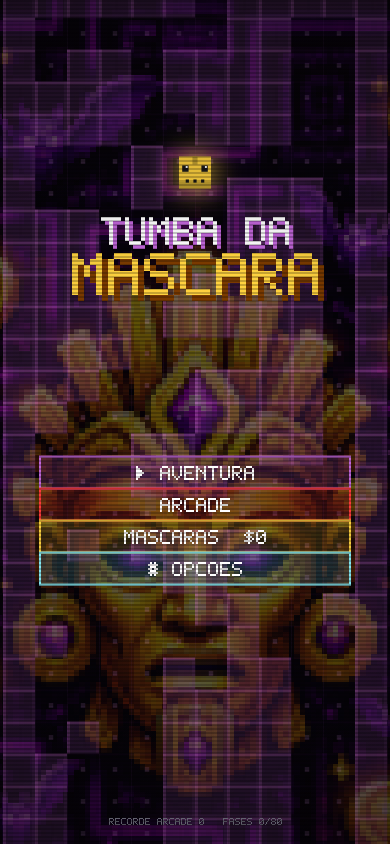
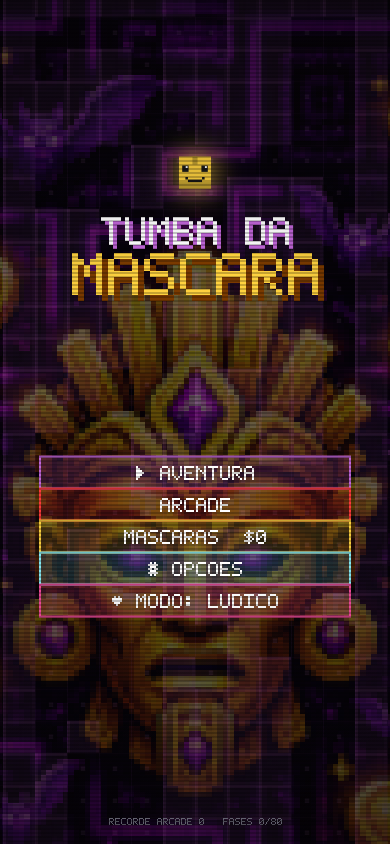
Adiciona Modo Lúdico (voz, elogios, confete, rostinhos) mantendo a mesma dificuldade
- Alternância Lúdico/Clássico na tela inicial e nas opções; os dois modos sempre disponíveis
- Modo Lúdico: narração em pt-BR via Web Speech, mensagens de incentivo ao errar, festa com confete ao vencer, palavras em combos, máscara sorrindo e morcegos fofos
- Seta de dica opcional, desligada por padrão (calculada pelo solver a partir da posição atual)
- Velocidade, perigos, lava e regra de reinício inalterados
- Teste e2e cobre a tela do modo lúdico; documentação atualizada

Claude-Session: https://claude.ai/code/session_0126L2T4JtTxqUNXm4kTD5H1

diff --git a/pwa/js/game.js b/pwa/js/game.js
@@ -19,6 +19,10 @@
   const SHOT_SPEED = 9;
   const SHOT_PERIOD = 2.2;
   const COLS = 12;
+  // Modo lúdico (para crianças): só muda a forma de comunicar, nunca a dificuldade.
+  const ELOGIOS = ['Muito bem!', 'Você conseguiu!', 'Incrível!', 'Que demais!', 'Parabéns, campeão!', 'Uau, mandou bem!'];
+  const ANIMOS = ['Opa! Tente de novo.', 'Quase! Vamos de novo.', 'Tudo bem, tenta mais uma vez!', 'Cuidado com isso! Vamos lá.', 'Você está quase lá!'];
+  const COMBOS = ['LEGAL!', 'UAU!', 'SHOW!', 'ISSO!', 'DEMAIS!'];
 
   const MASKS = [
     { id: 'classica', name: 'CLASSICA', color: '#ffd23f', eye: '#1a1a1a', cost: 0, perk: 'A MASCARA ORIGINAL', perkId: null },
@@ -34,7 +38,7 @@
     data: null,
     load() {
       try { this.data = JSON.parse(localStorage.getItem(SAVE_KEY)) || null; } catch (e) { this.data = null; }
-      this.data = Object.assign({ unlocked: 1, stars: {}, best: {}, coins: 0, masks: ['classica'], mask: 'classica', arcadeBest: 0, sfx: true, music: true, crt: true, shake: true }, this.data || {});
+      this.data = Object.assign({ unlocked: 1, stars: {}, best: {}, coins: 0, masks: ['classica'], mask: 'classica', arcadeBest: 0, sfx: true, music: true, crt: true, shake: true, kids: true, voice: true, hints: false }, this.data || {});
       return this.data;
     },
     write() { try { localStorage.setItem(SAVE_KEY, JSON.stringify(this.data)); } catch (e) { /* armazenamento indisponível */ } },
@@ -187,6 +191,8 @@
       this.state = 'play'; this.buttons = [];
       this.hintTimer = index === 0 ? 6 : 0;
       this.lastFrame = now();
+      this.idleSince = null; this.hint = null; this.combo = 0;
+      if (this.kids() && index === 0 && !this.spokeIntro) { this.spokeIntro = true; this.speak('Deslize o dedo para a máscara voar até a parede!'); }
     }
 
     startArcade() {
@@ -268,6 +274,21 @@
     }
 
     mask() { return MASKS.find((m) => m.id === this.save.mask) || MASKS[0]; }
+    kids() { return !!this.save.kids; }
+    pick(arr) { return arr[Math.floor(Math.random() * arr.length)]; }
+    // Voz em português (Web Speech API, usa as vozes do próprio aparelho)
+    speak(text) {
+      if (!this.kids() || !this.save.voice || !root.speechSynthesis) return;
+      try {
+        root.speechSynthesis.cancel();
+        const u = new SpeechSynthesisUtterance(text);
+        u.lang = 'pt-BR'; u.rate = 0.95; u.pitch = 1.15;
+        const voices = root.speechSynthesis.getVoices();
+        const v = voices.find((vv) => /pt[-_]BR/i.test(vv.lang)) || voices.find((vv) => /^pt/i.test(vv.lang));
+        if (v) u.voice = v;
+        root.speechSynthesis.speak(u);
+      } catch (e) { /* sem voz disponível */ }
+    }
     viewRows() { return this.H / this.tile; }
 
     queueMove(dir) {
@@ -284,7 +305,7 @@
       while (!M.isSolid(this.grid.get(tx + d[0], ty + d[1]))) { tx += d[0]; ty += d[1]; if (Math.abs(tx - p.cx) + Math.abs(ty - p.cy) > 200) break; }
       if (tx === p.cx && ty === p.cy) { this.bumpFx(d); return; }
       p.dir = d; p.face = d; p.moving = true; p.tx = tx; p.ty = ty; p.queued = null;
-      this.moves++;
+      this.moves++; this.idleSince = this.t; this.hint = null;
       if (!this.started) { this.started = true; this.timeStart = now(); }
       this.audio.move();
     }
@@ -314,6 +335,10 @@
       for (const p of this.particles) { p.x += p.vx * dt; p.y += p.vy * dt; p.vy += p.g * dt; p.life -= dt; }
       this.particles = this.particles.filter((p) => p.life > 0);
       if (this.toast) { this.toast.t -= dt; if (this.toast.t <= 0) this.toast = null; }
+      if (this.confetti > 0 && this.state === 'win') {
+        this.confetti -= dt / 3;
+        for (let i = 0; i < 2; i++) this.particles.push({ x: Math.random() * COLS, y: this.camY - 0.5, vx: (Math.random() - 0.5) * 2, vy: 2 + Math.random() * 3, g: 2, life: 2.5, color: this.pick(['#ffd23f', '#ff4fa3', '#8cf5ff', '#7fc33a', '#ffffff']), size: 0.18 + Math.random() * 0.12 });
+      }
     }
 
     update(dt) {
@@ -321,6 +346,11 @@
       const p = this.player;
       if (this.started) this.elapsed = now() - this.timeStart;
       if (this.hintTimer > 0) this.hintTimer -= dt;
+      // Seta de dica (opcional, desligada por padrão): aparece se a criança ficar parada
+      if (this.save.hints && !p.moving && !p.dead && this.mode === 'stage') {
+        if (this.idleSince == null) this.idleSince = this.t;
+        if (this.t - this.idleSince > 5 && !this.hint) this.hint = this.computeHint();
+      }
       p.squash = Math.max(0, p.squash - dt * 6);
       p.invul = Math.max(0, p.invul - dt);
       if (p.freeze > 0) p.freeze -= dt;
@@ -416,6 +446,30 @@
       this.camY = lerp(this.camY, this.mode === 'arcade' ? target : clamp(target, Math.min(minCam, maxCam), Math.max(minCam, maxCam)), 1 - Math.pow(0.001, dt));
     }
 
+    // Próximo movimento do caminho mais curto a partir da posição atual
+    computeHint() {
+      const rows = [];
+      for (let y = this.grid.minY; y <= this.grid.maxY; y++) rows.push(this.grid.rows.get(y).join(''));
+      const p = this.player;
+      const start = [p.cx, p.cy - this.grid.minY];
+      const key = (x, y) => y * 1000 + x;
+      const q = [start], par = new Map([[key(...start), null]]);
+      let exitK = null;
+      while (q.length && exitK === null) {
+        const [x, y] = q.shift();
+        for (const d of M.DIRS) {
+          const sl = M.slide(rows, x, y, d[0], d[1]);
+          if (sl.dead || !sl.path.length) continue;
+          const k = key(sl.x, sl.y);
+          if (!par.has(k)) { par.set(k, { from: key(x, y), d }); if (sl.exit) { exitK = k; break; } q.push([sl.x, sl.y]); }
+        }
+      }
+      if (exitK === null) return { d: [0, -1] };
+      let k = exitK, first = null;
+      while (par.get(k)) { first = par.get(k).d; k = par.get(k).from; }
+      return { d: first || [0, -1] };
+    }
+
     enterCell(x, y) {
       const c = this.grid.get(x, y);
       if (c === T.SPIKE) { this.die('espinho'); return; }
@@ -425,7 +479,11 @@
     collect(x, y, c) {
       const p = this.player;
       this.grid.set(x, y, T.EMPTY);
-      if (c === T.DOT) { this.score += 10; this.dotsLeft--; this.audio.dot(); this.burst(x + 0.5, y + 0.5, 2, this.world.accent, 0.8); }
+      if (c === T.DOT) {
+        this.score += 10; this.dotsLeft--; this.audio.dot(); this.burst(x + 0.5, y + 0.5, 2, this.world.accent, 0.8);
+        this.combo = (this.t - (this.lastDotAt || -9) < 0.35) ? (this.combo || 0) + 1 : 1; this.lastDotAt = this.t;
+        if (this.kids() && this.combo > 0 && this.combo % 8 === 0) this.toastMsg(this.pick(COMBOS));
+      }
       else if (c === T.COIN) {
         const v = this.mask().perkId === 'coins2x' ? 2 : 1;
         this.levelCoins++; this.score += 100; this.save.coins += 5 * v; this.audio.coin();
@@ -462,6 +520,7 @@
       if (navigator.vibrate) { try { navigator.vibrate(80); } catch (e) { /* ignorado */ } }
       this.state = this.mode === 'arcade' ? 'arcadeover' : 'dead';
       this.buttons = [];
+      if (this.kids()) { this.deathMsg = this.pick(ANIMOS); this.speak(this.deathMsg); }
       if (this.mode === 'arcade') {
         const sc = this.arcadeScore();
         if (sc > this.save.arcadeBest) { this.save.arcadeBest = sc; this.newBest = true; } else this.newBest = false;
@@ -485,6 +544,9 @@
       this.newWorld = wasUnlocked !== this.save.unlocked && (idx + 1) % 10 === 0 && idx + 1 < root.LEVELS.length;
       Save.write();
       this.state = 'win'; this.buttons = []; this.winAt = this.t;
+      this.winTitle = this.kids() ? this.pick(['MUITO BEM!', 'INCRIVEL!', 'VOCE CONSEGUIU!', 'UAU!']) : 'COMPLETA!';
+      this.confetti = this.kids() ? 1 : 0;
+      if (this.kids()) this.speak(this.pick(ELOGIOS) + (stars === 3 ? ' Três estrelas!' : stars === 0 ? ' Tente pegar as estrelas douradas!' : ''));
     }
     restart() { if (this.mode === 'arcade') this.startArcade(); else this.startLevel(this.levelIndex); }
     nextLevel() {
@@ -620,6 +682,7 @@
         ctx.fillRect(ox + tr.x * s - k / 2, oy + tr.y * s - k / 2, k, k);
       }
       if (!p.dead) this.drawPlayer(ox + p.x * s, oy + p.y * s);
+      if (this.hint && !p.moving && this.state === 'play') this.drawHint(ox + p.x * s, oy + p.y * s, this.hint.d);
       // partículas
       for (const pt of this.particles) {
         ctx.fillStyle = pt.color; ctx.globalAlpha = clamp(pt.life * 2, 0, 1);
@@ -717,8 +780,14 @@
       ctx.fillRect(cx - bw / 2 - s * 0.18, wy - s * 0.1, s * 0.12, s * 0.1);
       ctx.fillRect(cx + bw / 2 + s * 0.06, wy - s * 0.1, s * 0.12, s * 0.1);
       ctx.shadowBlur = 0;
-      ctx.fillStyle = '#ff4040'; const e = Math.max(1, s * 0.06);
-      ctx.fillRect(cx - bw / 4 - e / 2, cy - bh / 4, e, e); ctx.fillRect(cx + bw / 4 - e / 2, cy - bh / 4, e, e);
+      if (this.kids()) { // olhos grandes e fofos
+        const e = Math.max(2, s * 0.11);
+        ctx.fillStyle = '#ffffff'; ctx.fillRect(cx - bw / 4 - e / 2, cy - bh / 4, e, e); ctx.fillRect(cx + bw / 4 - e / 2, cy - bh / 4, e, e);
+        ctx.fillStyle = '#1a1a1a'; const pz = Math.max(1, e * 0.5); ctx.fillRect(cx - bw / 4, cy - bh / 4 + e * 0.3, pz, pz); ctx.fillRect(cx + bw / 4, cy - bh / 4 + e * 0.3, pz, pz);
+      } else {
+        ctx.fillStyle = '#ff4040'; const e = Math.max(1, s * 0.06);
+        ctx.fillRect(cx - bw / 4 - e / 2, cy - bh / 4, e, e); ctx.fillRect(cx + bw / 4 - e / 2, cy - bh / 4, e, e);
+      }
     }
     drawPlayer(cx, cy) {
       const ctx = this.ctx, s = this.tile, p = this.player, mask = this.mask();
@@ -744,9 +813,12 @@
       ctx.fillStyle = '#ffffff';
       ctx.fillRect(-k * 0.3 + ex - eye / 2 + eye * 0.55, -k * 0.12 + ey - eye / 2 + eye * 0.1, eye * 0.3, eye * 0.3);
       ctx.fillRect(k * 0.3 + ex - eye / 2 + eye * 0.55, -k * 0.12 + ey - eye / 2 + eye * 0.1, eye * 0.3, eye * 0.3);
-      // boca
+      // boca: sorriso no modo lúdico, dentes no modo clássico
       ctx.fillStyle = mask.eye;
-      for (let i = -2; i <= 2; i++) if (i % 2 === 0) ctx.fillRect(i * k * 0.12 - k * 0.05, k * 0.22, k * 0.1, k * 0.1);
+      if (this.kids()) {
+        ctx.fillRect(-k * 0.3, k * 0.14, k * 0.08, k * 0.08); ctx.fillRect(k * 0.22, k * 0.14, k * 0.08, k * 0.08);
+        ctx.fillRect(-k * 0.22, k * 0.22, k * 0.44, k * 0.08);
+      } else for (let i = -2; i <= 2; i++) if (i % 2 === 0) ctx.fillRect(i * k * 0.12 - k * 0.05, k * 0.22, k * 0.1, k * 0.1);
       ctx.restore();
       if (p.shield > 0) {
         ctx.strokeStyle = rgba('#8cf5ff', 0.7 + 0.3 * Math.sin(this.t * 8)); ctx.lineWidth = 2;
@@ -757,6 +829,16 @@
         ctx.strokeStyle = rgba('#ff4fa3', 0.35); ctx.lineWidth = 1;
         ctx.beginPath(); ctx.arc(cx, cy, 2.2 * s + Math.sin(this.t * 5) * 3, 0, Math.PI * 2); ctx.stroke();
       }
+    }
+    drawHint(cx, cy, d) {
+      const ctx = this.ctx, s = this.tile;
+      const bob = Math.sin(this.t * 6) * s * 0.15;
+      const dist = s * 1.1 + bob;
+      ctx.save(); ctx.translate(cx + d[0] * dist, cy + d[1] * dist); ctx.rotate(Math.atan2(d[1], d[0]));
+      ctx.shadowColor = '#ffffff'; ctx.shadowBlur = 12; ctx.fillStyle = '#ffffff';
+      const a = s * 0.42;
+      ctx.beginPath(); ctx.moveTo(a * 0.6, 0); ctx.lineTo(-a * 0.3, -a * 0.55); ctx.lineTo(-a * 0.05, 0); ctx.lineTo(-a * 0.3, a * 0.55); ctx.closePath(); ctx.fill();
+      ctx.restore();
     }
     drawFluid(ox, oy) {
       const ctx = this.ctx, s = this.tile, f = this.fluid;
@@ -856,10 +938,14 @@
       this.overlay(a);
       if (this.t - this.deadAt < 0.4) return;
       const u = this.ui, cx = this.W / 2, cy = this.H / 2;
-      F.text(this.ctx, 'VOCE MORREU', cx, cy - u * 20, u * 2, '#ff3b3b', 'center', { shadow: '#400' });
-      const causes = { espinho: 'ESPINHOS!', morcego: 'UM MORCEGO TE PEGOU', flecha: 'ATINGIDO POR UMA FLECHA', lava: 'A LAVA TE ALCANCOU', agua: 'VOCE SE AFOGOU' };
+      const kids = this.kids();
+      F.text(this.ctx, kids ? 'OPA!' : 'VOCE MORREU', cx, cy - u * 20, u * 2, kids ? '#ffd23f' : '#ff3b3b', 'center', { shadow: kids ? '#7a3a00' : '#400' });
+      const causes = kids
+        ? { espinho: 'CUIDADO COM OS ESPINHOS', morcego: 'O MORCEGO TE PEGOU', flecha: 'A FLECHA TE ACERTOU', lava: 'A LAVA CHEGOU PERTO', agua: 'A AGUA SUBIU' }
+        : { espinho: 'ESPINHOS!', morcego: 'UM MORCEGO TE PEGOU', flecha: 'ATINGIDO POR UMA FLECHA', lava: 'A LAVA TE ALCANCOU', agua: 'VOCE SE AFOGOU' };
       F.text(this.ctx, causes[this.deathCause] || '', cx, cy - u * 2, u, '#ffffff', 'center');
-      if (Math.floor(this.t * 2) % 2 === 0) F.text(this.ctx, 'TOQUE PARA TENTAR DE NOVO', cx, cy + u * 14, u, '#ffd23f', 'center');
+      if (kids) F.text(this.ctx, (this.deathMsg || '').toUpperCase().replace(/[.!]/g, ''), cx, cy + u * 6, Math.max(1, u - 1), '#8cf5ff', 'center');
+      if (Math.floor(this.t * 2) % 2 === 0) F.text(this.ctx, 'TOQUE PARA TENTAR DE NOVO', cx, cy + u * 16, u, '#ffd23f', 'center');
       const w = Math.min(this.W * 0.8, 320);
       this.drawButton('⌂ MENU', cx, cy + u * 36, w, () => { this.audio.stopMusic(); this.goto('levels'); }, null, 'd1');
     }
@@ -869,7 +955,7 @@
       if (k < 0.3) return;
       const u = this.ui, cx = this.W / 2, cy = this.H / 2;
       F.text(this.ctx, 'FASE ' + this.level.n, cx, cy - u * 44, u, this.world.accent, 'center');
-      F.text(this.ctx, 'COMPLETA!', cx, cy - u * 32, u * 2, '#ffffff', 'center', { shadow: this.world.color });
+      F.text(this.ctx, this.winTitle || 'COMPLETA!', cx, cy - u * 32, u * 2, '#ffffff', 'center', { shadow: this.world.color });
       // estrelas animadas
       for (let i = 0; i < 3; i++) {
         const shown = this.t - this.winAt > 0.6 + i * 0.35;
@@ -921,6 +1007,7 @@
       this.drawButton('ARCADE', cx, by + u * 16, w, () => { this.startArcade(); }, '#ff3b3b', 't2');
       this.drawButton('MASCARAS  $' + this.save.coins, cx, by + u * 32, w, () => this.goto('shop'), '#ffd23f', 't3');
       this.drawButton('⚙ OPCOES', cx, by + u * 48, w, () => this.goto('settings'), '#8cf5ff', 't4');
+      this.drawButton(this.kids() ? '\u2665 MODO: LUDICO' : 'MODO: CLASSICO', cx, by + u * 64, w, () => { this.save.kids = !this.save.kids; Save.write(); this.buttons = []; if (this.save.kids) this.speak('Modo lúdico ligado!'); }, this.kids() ? '#ff4fa3' : '#888899', 't5');
       F.text(ctx, 'RECORDE ARCADE ' + this.save.arcadeBest + '   FASES ' + Math.min(this.save.unlocked - 1, root.LEVELS.length) + '/' + root.LEVELS.length, cx, this.H - u * 9 - 8, Math.max(1, u - 1), '#888899', 'center');
       this.buttons = this.buttons.filter((b) => b.id !== 'pause');
     }
@@ -947,7 +1034,9 @@
       ctx.fillStyle = mask.eye;
       ctx.fillRect(-k * 0.3 - eye / 2, -k * 0.12 - eye / 2, eye, eye * blink); ctx.fillRect(k * 0.3 - eye / 2, -k * 0.12 - eye / 2, eye, eye * blink);
       ctx.fillStyle = '#fff'; if (blink === 1) { ctx.fillRect(-k * 0.3 + eye * 0.05, -k * 0.12 - eye * 0.4, eye * 0.3, eye * 0.3); ctx.fillRect(k * 0.3 + eye * 0.05, -k * 0.12 - eye * 0.4, eye * 0.3, eye * 0.3); }
-      ctx.fillStyle = mask.eye; for (let i = -2; i <= 2; i += 2) ctx.fillRect(i * k * 0.12 - k * 0.05, k * 0.22, k * 0.1, k * 0.1);
+      ctx.fillStyle = mask.eye;
+      if (this.kids()) { ctx.fillRect(-k * 0.3, k * 0.14, k * 0.08, k * 0.08); ctx.fillRect(k * 0.22, k * 0.14, k * 0.08, k * 0.08); ctx.fillRect(-k * 0.22, k * 0.22, k * 0.44, k * 0.08); }
+      else for (let i = -2; i <= 2; i += 2) ctx.fillRect(i * k * 0.12 - k * 0.05, k * 0.22, k * 0.1, k * 0.1);
       ctx.restore();
     }
     renderWorlds() {
@@ -1029,8 +1118,11 @@
       this.renderBackdrop('#8cf5ff');
       F.text(ctx, 'OPCOES', cx, 16, u * 1.5 | 0 || u, '#ffffff', 'center', { shadow: '#0f4d52' });
       const w = Math.min(this.W * 0.85, 340);
-      const top = 16 + u * 20, step = u * 7 + 32;
+      const top = 16 + u * 20, step = Math.min(u * 7 + 32, (this.H - 16 - u * 20 - u * 7 - 110) / 8);
       const opts = [
+        ['MODO LUDICO', 'kids', null],
+        ['VOZ (PT-BR)', 'voice', () => { if (this.save.voice) this.speak('Oi! Vamos jogar?'); }],
+        ['SETA DE DICA', 'hints', null],
         ['♪ MUSICA', 'music', () => this.audio.setMusic(this.save.music)],
         ['SONS', 'sfx', () => this.audio.setSfx(this.save.sfx)],
         ['EFEITO CRT', 'crt', null],
@@ -1044,8 +1136,9 @@
         else { this.confirmReset = true; this.buttons = []; }
       }, this.confirmReset ? '#ff3b3b' : '#888899', 'reset');
       if (this.confirmReset) F.text(ctx, 'TOQUE DE NOVO PARA CONFIRMAR', cx, top + opts.length * step + 10 + u * 8, Math.max(1, u - 1), '#ff3b3b', 'center');
-      F.text(ctx, 'TECLADO: SETAS OU WASD', cx, this.H - u * 30, Math.max(1, u - 1), '#888899', 'center');
-      F.text(ctx, 'P = PAUSA   R = REINICIAR', cx, this.H - u * 22, Math.max(1, u - 1), '#888899', 'center');
+      F.text(ctx, 'MODO LUDICO: VOZ, FESTA E CARINHO.', cx, this.H - u * 38, Math.max(1, u - 1), '#ff4fa3', 'center');
+      F.text(ctx, 'A DIFICULDADE E SEMPRE A MESMA.', cx, this.H - u * 30, Math.max(1, u - 1), '#ff4fa3', 'center');
+      F.text(ctx, 'TECLADO: SETAS/WASD  P=PAUSA  R=REINICIAR', cx, this.H - u * 22, Math.max(1, u - 1), '#888899', 'center');
       this.drawButton('< VOLTAR', cx, this.H - u * 7 - 18, Math.min(this.W * 0.6, 220), () => { this.confirmReset = false; this.goto('title'); }, '#888899', 'back');
     }
   }

diff --git a/tools/e2e.js b/tools/e2e.js
@@ -61,6 +61,21 @@ const { spawn } = require('child_process');
   await page.screenshot({ path: path.join(out, '5-vitoria.png') });
   console.log('fase 1:', JSON.stringify(result));
 
+  // modo lúdico: morrer em um espinho mostra "OPA!" e a fase reinicia igual
+  const ludico = await page.evaluate(async () => {
+    game.save.kids = true; game.startLevel(12);
+    const p = game.player;
+    // encontra um espinho e teleporta para a célula ao lado, depois entra nele
+    let sp = null;
+    for (let y = 0; y < LEVELS[12].rows.length && !sp; y++) { const x = LEVELS[12].rows[y].indexOf('x'); if (x >= 0) sp = [x, y]; }
+    if (!sp) return { skipped: true };
+    game.started = true; p.cx = sp[0]; p.cy = sp[1]; game.enterCell(sp[0], sp[1]);
+    await new Promise((r) => setTimeout(r, 700));
+    return { state: game.state, msg: game.deathMsg };
+  });
+  await page.screenshot({ path: path.join(out, '5b-opa.png') });
+  console.log('modo lúdico (opa):', JSON.stringify(ludico));
+
   // uma fase com lava e inimigos
   await page.evaluate(() => game.startLevel(45));
   await page.waitForTimeout(3500);

diff --git a/ANALISE.md b/ANALISE.md
@@ -82,6 +82,23 @@ até a saída. O gerador:
 - Músicas: sequenciador chiptune (bateria, baixo, arpejo, melodia pentatônica) com um tema por mundo
   e um tema de menu, gerados por semente. Sons: blip com combo de tom, moeda, power-up, morte, vitória.
 
+### 3.4 Modo Lúdico x Modo Clássico (os dois sempre disponíveis)
+
+O jogo tem um botão na tela inicial e nas opções para alternar entre os modos.
+**A dificuldade, a velocidade, os perigos e as regras são idênticos nos dois.** O que muda é só a
+forma de se comunicar com a criança (metodologia lúdica, pensada para 5 anos):
+
+| | Modo Lúdico (padrão) | Modo Clássico |
+|---|---|---|
+| Ao errar | "OPA!" + frase de incentivo falada ("Quase! Vamos de novo.") | "VOCÊ MORREU" + causa |
+| Ao vencer | "MUITO BEM! / INCRÍVEL! / UAU!", chuva de confete, elogio falado, dica para pegar as estrelas | "COMPLETA!" |
+| Durante o jogo | Palavras de incentivo em combos de pontos ("LEGAL!", "SHOW!") | sem mensagens extras |
+| Visual | Máscara sorrindo, morcegos com olhos grandes e fofos | Máscara com dentes, morcegos de olhos vermelhos |
+| Voz | Narração em português pelo próprio aparelho (Web Speech, sem internet), ligável/desligável | sem voz |
+| Seta de dica | Opcional e **desligada por padrão**: se ligada, após 5 s parado mostra para onde ir | não disponível |
+
+A voz usa as vozes instaladas no celular/computador (pt-BR quando houver), então não gasta dados nem créditos.
+
 ## 4. Como rodar o servidor em casa
 
 ```bash

diff --git a/README.md b/README.md
@@ -24,6 +24,7 @@ Sem instalar nada além do Node. Também há `Dockerfile` e um workflow de GitHu
 - Modo Arcade infinito com lava acelerando e recorde salvo.
 - 3 estrelas por fase, loja de máscaras com bônus, power-ups (escudo, congelar, ímã).
 - Música chiptune e efeitos sonoros gerados em tempo real (sem arquivos de áudio).
+- **Modo Lúdico** (para crianças pequenas) e **Modo Clássico**, com a mesma dificuldade: o lúdico adiciona voz em português, elogios, confete e mensagens carinhosas; a seta de dica é opcional e vem desligada.
 - Fonte pixel art própria, efeito CRT, tremor de tela, partículas.
 
 Controles: deslizar na tela, ou setas / WASD no teclado. `P` pausa, `R` reinicia.
